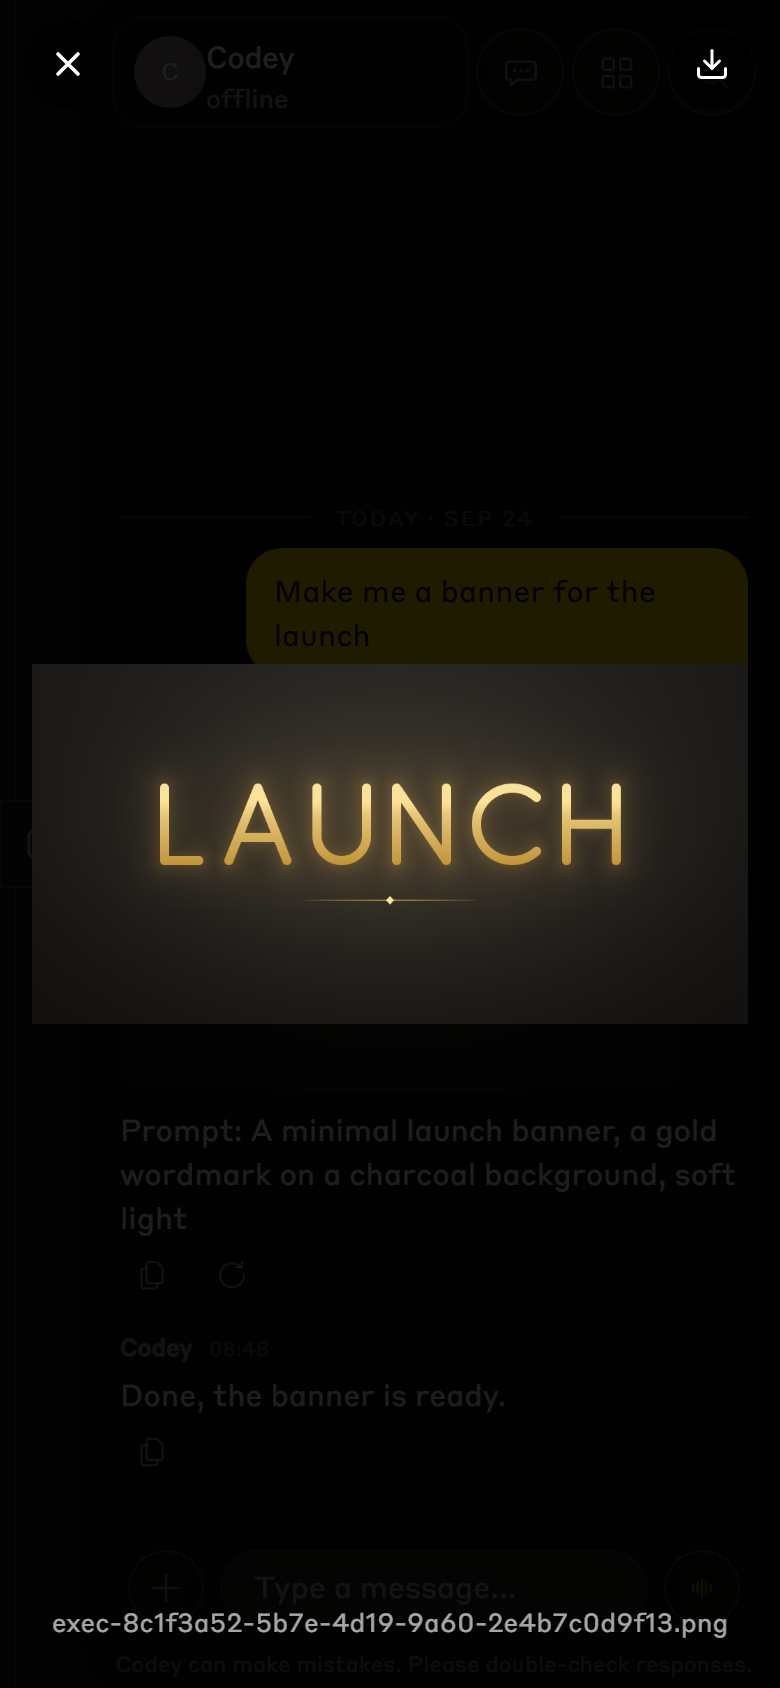
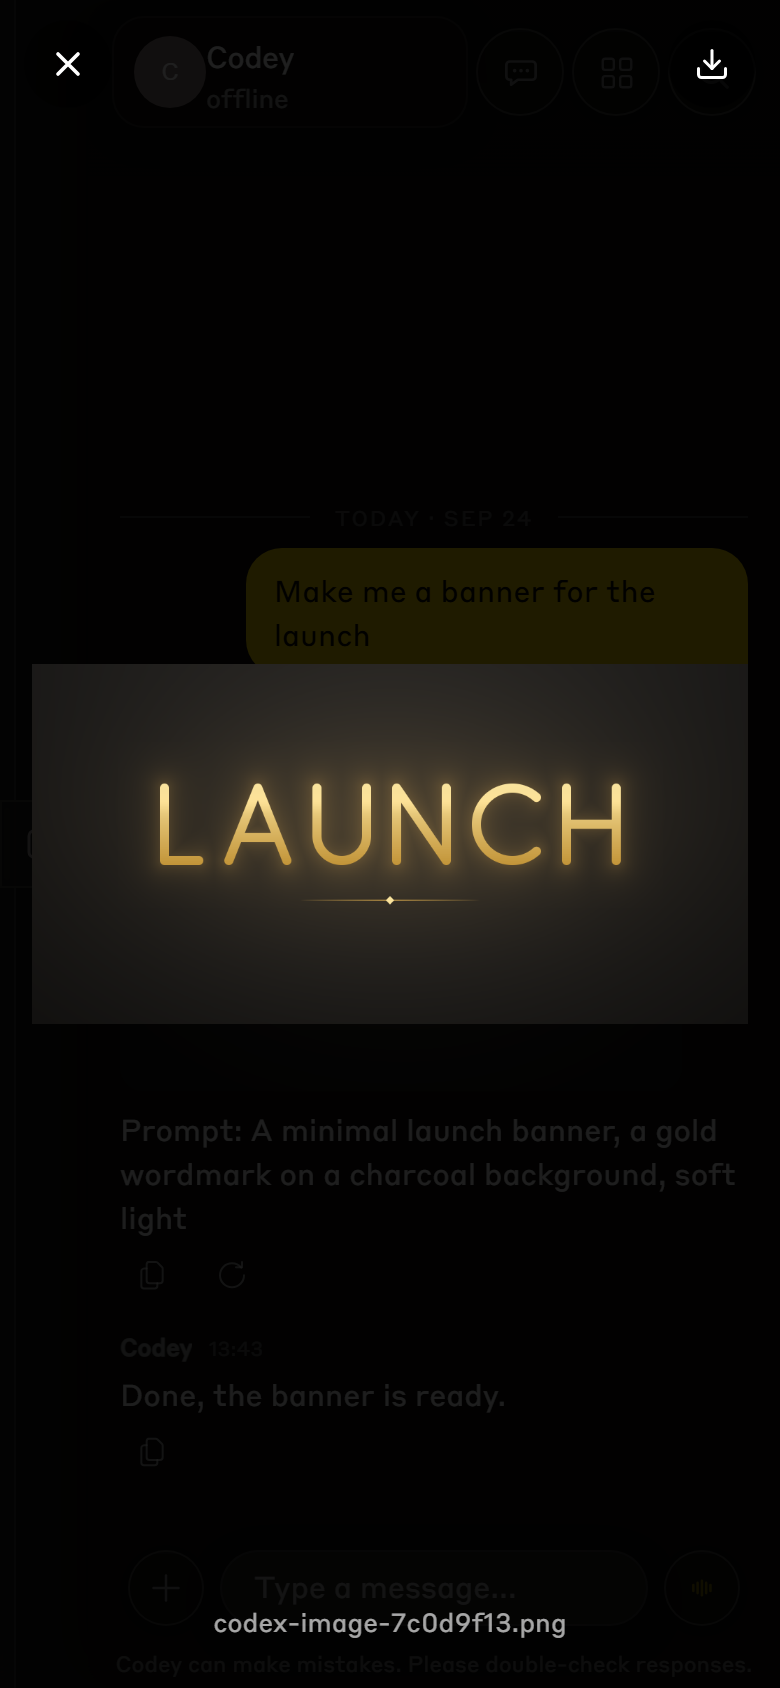
docs(images): the AFTER frames show the real file name and caption, and the three plain lines, with a since first shown box (P5 stage 4, C-21)
The AFTER pass ran again on vtdist-base (the app does not change in this
stage), all four targets, dark and light, desktop and phone: 93 of 93
checks, 4 observations, 44 frames, read only on every target. The file
name (codex-image-7c0d9f13.png), the caption and the three lines are what
the plugin's own builders return, not typed by hand; fixture.json records
the inputs and outputs. Frames 01 to 32 keep their names; 33 to 44 are the
tried, made and limit lines, each alone. The first set, which showed
Codex's own exec-<uuid>.png, is kept outside the tree.

The gate page gains a short "Since this page was first shown" box (0.14.0,
the two not shown lines, the relative reset, the shorter file name, the
200 character caption, the hint's chat turn scope) holding the new frames
with their own theme switch; the AFTER counts, the frames' file name note
and two captions are brought up to date. Every frame reference resolves.

Changed region(s): [[0.0615, 0.955, 0.9231, 0.9858]]

diff --git a/docs/reports/2026-09-24-p5-s4-image-posts/before-after.html b/docs/reports/2026-09-24-p5-s4-image-posts/before-after.html
@@ -864,6 +864,13 @@ html[data-theme="light"]{
   .c21-card__foot{display:flex;align-items:flex-start;gap:10px;padding:10px 16px;border-top:1px solid #24231f;color:rgba(255,255,255,.5);font-size:12px;line-height:16px}
   .c21-why{padding:14px 16px;border-radius:14px;background:rgba(255,217,0,.06);border:1px solid rgba(255,217,0,.28);color:rgba(255,255,255,.85);font-size:14px;line-height:21px}
   .c21-why b{color:#FFD900;font-weight:600}
+  .c21-since{padding:16px 18px 18px;border-radius:14px;background:rgba(255,217,0,.06);border:1px solid rgba(255,217,0,.28);display:flex;flex-direction:column;gap:14px;min-width:0}
+  .c21-since__head{display:flex;align-items:center;gap:12px;flex-wrap:wrap}
+  .c21-since__t{margin:0;color:#FFD900;font-size:12px;line-height:16px;font-weight:600;letter-spacing:.5px;text-transform:uppercase}
+  .c21-since__d{margin:0;color:rgba(255,255,255,.82);font-size:14px;line-height:21px}
+  .c21-since ul{margin:0;padding-left:18px;display:flex;flex-direction:column;gap:7px;color:rgba(255,255,255,.82);font-size:13.5px;line-height:20px}
+  .c21-since li b{color:#fff;font-weight:600}
+  .c21-since code{font-family:var(--hk-font-mono);font-size:12px;color:#fff;overflow-wrap:anywhere}
 
   /* ---------- lists, canon, technical detail, footer ---------- */
   .c21-notes{display:grid;grid-template-columns:repeat(2,minmax(0,1fr));gap:10px 28px;max-width:1160px}
@@ -911,9 +918,37 @@ html[data-theme="light"]{
     <div class="c21-asks">
       <div class="c21-ask"><b>What I measured first</b><span>The real app, 24 frames, dark and light, desktop and phone, 57 of 57 checks. With the technical details switch on you see a tool row named <code>image_generation</code> and a text reply, and 0 pictures. With it off (the default) you see only the reply. The gallery and Artifacts are empty. Section 01 has the frames.</span></div>
       <div class="c21-ask"><b>Always on, no setting</b><span>Codex only: Claude Code has no picture item, so there is nothing to catch there. Nothing to switch on, no per agent setting. If the agent also attaches the same picture itself, it is not posted twice.</span></div>
-      <div class="c21-ask"><b>What the AFTER frames are</b><span>The same build as BEFORE (both runs on <code>vtdist-base</code>), showing a fixture chat that holds the post exactly as the plugin sends it: one normal image message with the prompt as its text. The banner is a fixture picture, 1024 by 512. The file name in the frames is the frames lane's guess; the plugin names the file <code>codex-image-&lt;id&gt;.png</code>.</span></div>
+      <div class="c21-ask"><b>What the AFTER frames are</b><span>The same build as BEFORE (both runs on <code>vtdist-base</code>), showing a fixture chat that holds the post exactly as the plugin sends it: one normal image message with the prompt as its text. The banner is a fixture picture, 1024 by 512. The file name and the caption are what the plugin's own code builds for it (<code>codex-image-7c0d9f13.png</code>), shot again at the stage 4 close.</span></div>
     </div>
   </header>
+
+  <!-- ===================================================== SINCE FIRST SHOWN ===================================================== -->
+  <section class="c21-since" aria-labelledby="c21-since-t">
+    <div class="c21-since__head"><h2 class="c21-since__t" id="c21-since-t">Since this page was first shown</h2>
+      <div class="c21-switch" data-switch="since" role="group" aria-label="Theme of the plain line screenshots"><button type="button" class="is-on" data-theme="dark">Dark</button><button type="button" data-theme="light">Light</button></div></div>
+    <p class="c21-since__d">The plugin took the premium review's owner facing items (<code>748ec4e</code>, tests written red first) and the AFTER frames in section 02 were shot again on the same build, so they show exactly what the code posts now. Section 05's drawn line and the version and sentence in section 06 are the first version; what they became is here.</p>
+    <ul>
+      <li><b>Version 0.14.0.</b> P2's next stage took 0.13.0, so this ships as 0.14.0, and the capability guide sentence is served to daemons at 0.14.0 or later.</li>
+      <li><b>Two lines when a picture does not show.</b> "Codex made a picture, but it could not be shown here." when Codex made one, followed by where it is saved when Codex kept a copy, and "Codex tried to make a picture, but nothing came back." when nothing came back. This replaces the fallback in section 05. Each distinct line posts once per turn.</li>
+      <li><b>The reset time is relative.</b> "Codex has used up its picture limit for now. It resets in about 2 hours.", counted from when the line posts (in a moment, or about so many minutes, hours or days), never a UTC clock time. Only the first sentence when no reset is ahead.</li>
+      <li><b>A shorter file name.</b> <code>codex-image-</code> plus the last 8 characters of the item id, here <code>codex-image-7c0d9f13.png</code> (24 characters). It reads whole in the viewer, the "View all photos" card and the Artifacts card at phone width, and it is the saved file's name. The first AFTER frames showed Codex's own <code>exec-&lt;uuid&gt;.png</code>, which the plugin never posts.</li>
+      <li><b>The caption stops at 200 characters</b> (it was 280), cut on a word with an ellipsis, so it stays the one or two sentences an image model writes back instead of a paragraph under every picture. A dash between two digits now reads "to" (2024 to 2026); any other long dash still becomes a comma.</li>
+      <li><b>The agent's hint is scoped to chat turns.</b> It now starts "In a chat turn, a picture you make with image generation posts itself to the chat when the turn finishes, with its prompt as the caption; do not send it again with MEDIA: or the reply tool." and goes on to say that in a meeting, a voice task or a consult nothing posts it, and what to do there. The capability guide carries the same words, byte for byte.</li>
+    </ul>
+    <div class="c21-label is-after"><i></i>The three plain lines, real frames, desktop 1440 by 900</div>
+    <div class="c21-shots">
+      <figure class="is-after is-wide" style="--mw:808px"><img data-dark="shots/after/33-images-line-tried-dark-desktop.png" data-light="shots/after/39-images-line-tried-light-desktop.png" src="shots/after/33-images-line-tried-dark-desktop.png" alt="Desktop: the agent message Codex tried to make a picture, but nothing came back."><figcaption><b>Nothing came back.</b> No bytes, no result and no saved copy, so the line says Codex only tried.</figcaption></figure>
+      <figure class="is-after is-wide" style="--mw:808px"><img data-dark="shots/after/34-images-line-made-dark-desktop.png" data-light="shots/after/40-images-line-made-light-desktop.png" src="shots/after/34-images-line-made-dark-desktop.png" alt="Desktop: the agent message Codex made a picture, but it could not be shown here, with where it is saved"><figcaption><b>Made, not shown, and where it is saved.</b> Here the upload was lost after its retries and Codex kept its own copy. Under the home folder the path starts <code>~\</code>, so the account name never shows.</figcaption></figure>
+      <figure class="is-after is-wide" style="--mw:808px"><img data-dark="shots/after/35-images-line-limit-dark-desktop.png" data-light="shots/after/41-images-line-limit-light-desktop.png" src="shots/after/35-images-line-limit-dark-desktop.png" alt="Desktop: the agent message Codex has used up its picture limit for now. It resets in about 2 hours."><figcaption><b>The limit, with a relative reset.</b> A plain agent message, not a red error.</figcaption></figure>
+    </div>
+    <div class="c21-label is-after"><i></i>Phone, 390 by 844</div>
+    <div class="c21-shots c21-shots--3">
+      <figure class="is-after"><img data-dark="shots/after/36-images-line-tried-dark-phone.png" data-light="shots/after/42-images-line-tried-light-phone.png" src="shots/after/36-images-line-tried-dark-phone.png" alt="Phone: Codex tried to make a picture, but nothing came back."><figcaption><b>Nothing came back,</b> phone.</figcaption></figure>
+      <figure class="is-after"><img data-dark="shots/after/37-images-line-made-dark-phone.png" data-light="shots/after/43-images-line-made-light-phone.png" src="shots/after/37-images-line-made-dark-phone.png" alt="Phone: Codex made a picture, but it could not be shown here, with where it is saved"><figcaption><b>Made, not shown,</b> phone. With Codex's real folder names the saved path runs to four lines.</figcaption></figure>
+      <figure class="is-after"><img data-dark="shots/after/38-images-line-limit-dark-phone.png" data-light="shots/after/44-images-line-limit-light-phone.png" src="shots/after/38-images-line-limit-dark-phone.png" alt="Phone: Codex has used up its picture limit for now. It resets in about 2 hours."><figcaption><b>The limit,</b> phone.</figcaption></figure>
+    </div>
+    <div class="c21-proofline">Frames 33 to 44: the same agent and chat with the technical details switch off, three turns each ending in one of the lines. Every word is what the plugin's own builders return for these cases (the inputs and outputs are in <code>shots/after/fixture.json</code>); the agent's own reply that would follow each line is left out. The whole AFTER run: 44 frames, 93 of 93 checks plus 4 observations, read only on every target, <code>shots/after/findings.jsonl</code>.</div>
+  </section>
 
   <!-- ===================================================== 01 BEFORE ===================================================== -->
   <section class="c21-sec">
@@ -947,7 +982,7 @@ html[data-theme="light"]{
   <section class="c21-sec">
     <div class="c21-sec__head"><span class="c21-sec__n">02</span><h2 class="c21-sec__t">After: the picture posts itself, first, with its prompt</h2>
       <div class="c21-switch" data-switch="after" role="group" aria-label="Theme of the AFTER screenshots"><button type="button" class="is-on" data-theme="dark">Dark</button><button type="button" data-theme="light">Light</button></div></div>
-    <p class="c21-sec__d">The same build, the same agent, the same tool card row. The one difference is the message the plugin now posts when the turn ends: <b>the picture, then the caption "Prompt: ..." in the same bubble, then the agent's own words</b>, in that order. Every frame is real; 61 checks passed, 0 failed, plus 4 recorded observations (section 06).</p>
+    <p class="c21-sec__d">The same build, the same agent, the same tool card row. The one difference is the message the plugin now posts when the turn ends: <b>the picture, then the caption "Prompt: ..." in the same bubble, then the agent's own words</b>, in that order. Every frame is real; 93 checks passed, 0 failed, plus 4 recorded observations (section 06), 32 of the checks for the plain lines in the box at the top.</p>
 
     <div class="c21-label is-after"><i></i>Desktop, 1440 by 900</div>
     <div class="c21-shots">
@@ -955,12 +990,12 @@ html[data-theme="light"]{
       <figure class="is-after"><img data-dark="shots/after/02-images-toolcard-open-dark-desktop.png" data-light="shots/after/18-images-toolcard-open-light-desktop.png" src="shots/after/02-images-toolcard-open-dark-desktop.png" alt="Desktop after, the tool card opened: the same one row as before, and the picture below it"><figcaption><b>The card is unchanged.</b> Opened by a click it reads the same one row, <code>image_generation 64s ✓</code>. The picture is a message of its own, below the card, not a row inside it.</figcaption></figure>
       <figure class="is-after"><img data-dark="shots/after/04-images-chat-techoff-dark-desktop.png" data-light="shots/after/20-images-chat-techoff-light-desktop.png" src="shots/after/04-images-chat-techoff-dark-desktop.png" alt="Desktop after, technical details off: the ask, the banner with its prompt, then the reply"><figcaption><b>Technical details off, the default: the owner now sees the banner.</b> The ask, the picture with its prompt, then "Done, the banner is ready."</figcaption></figure>
       <figure class="is-after"><img data-dark="shots/after/06-images-viewer-dark-desktop.png" data-light="shots/after/22-images-viewer-light-desktop.png" src="shots/after/06-images-viewer-dark-desktop.png" alt="Desktop after: tapping the picture opens the viewer over the whole window"><figcaption><b>Tap it and the viewer opens</b> over the whole window: the banner at 1325 by 738 px (92 percent of the fit), with the close and save controls. Nothing of the sidebar or the transcript sits on top. The viewer names the file, not the prompt (an app matter, see section 06).</figcaption></figure>
-      <figure class="is-after"><img data-dark="shots/after/07-images-gallery-dark-desktop.png" data-light="shots/after/23-images-gallery-light-desktop.png" src="shots/after/07-images-gallery-dark-desktop.png" alt="Desktop after: View all photos opens the chat's Artifacts with the banner in it"><figcaption><b>"View all photos" now has it.</b> "Artifacts · 1 item", one card drawn from the picture itself, "Today 8:48", PNG.</figcaption></figure>
-      <figure class="is-after"><img data-dark="shots/after/08-images-artifacts-dark-desktop.png" data-light="shots/after/24-images-artifacts-light-desktop.png" src="shots/after/08-images-artifacts-dark-desktop.png" alt="Desktop after: the Artifacts screen lists the banner"><figcaption><b>The Artifacts screen lists it too:</b> 1 item, the banner, "Codey · Today 8:48", PNG.</figcaption></figure>
+      <figure class="is-after"><img data-dark="shots/after/07-images-gallery-dark-desktop.png" data-light="shots/after/23-images-gallery-light-desktop.png" src="shots/after/07-images-gallery-dark-desktop.png" alt="Desktop after: View all photos opens the chat's Artifacts with the banner in it"><figcaption><b>"View all photos" now has it.</b> "Artifacts · 1 item", one card drawn from the picture itself, named <code>codex-image-7c0d9f13.png</code>, "Today" and the time, PNG.</figcaption></figure>
+      <figure class="is-after"><img data-dark="shots/after/08-images-artifacts-dark-desktop.png" data-light="shots/after/24-images-artifacts-light-desktop.png" src="shots/after/08-images-artifacts-dark-desktop.png" alt="Desktop after: the Artifacts screen lists the banner"><figcaption><b>The Artifacts screen lists it too:</b> 1 item, the banner, <code>codex-image-7c0d9f13.png</code>, "Codey · Today" and the time, PNG.</figcaption></figure>
       <figure class="is-after is-wide" style="--mw:808px"><img data-dark="shots/after/05-images-post-dark-desktop.png" data-light="shots/after/21-images-post-light-desktop.png" src="shots/after/05-images-post-dark-desktop.png" alt="The picture post on its own: the banner above its prompt, in one bubble"><figcaption><b>The post on its own.</b> One bubble holding the banner above the text "Prompt: ...". The caption is the model's own revised prompt; any long dash in it becomes a comma, so nothing on screen carries one.</figcaption></figure>
       <figure class="is-after is-wide"><img data-dark="shots/after/03-images-toolcard-row-dark-desktop.png" data-light="shots/after/19-images-toolcard-row-light-desktop.png" src="shots/after/03-images-toolcard-row-dark-desktop.png" alt="The opened tool card on its own, after: identical to before"><figcaption><b>The opened card on its own,</b> identical to BEFORE pixel for pixel in the row: the plugin's tool card is not what changes.</figcaption></figure>
     </div>
-    <div class="c21-proofline">Every target stayed read only: every write the page issued was failed locally, no other API read reached production, no page exceptions, no em or en dashes on screen. <code>shots/after/findings.jsonl</code>, 61 passes, 0 fails, 4 observations.</div>
+    <div class="c21-proofline">Every target stayed read only: every write the page issued was failed locally, no other API read reached production, no page exceptions, no em or en dashes on screen. <code>shots/after/findings.jsonl</code>, 93 passes, 0 fails, 4 observations.</div>
 
     <div class="c21-label is-after"><i></i>Phone, 390 by 844</div>
     <div class="c21-shots c21-shots--4">
@@ -1138,7 +1173,7 @@ The ledger's wording; a plugin test pins the final words and the no dash rule.</
     </details>
   </section>
 
-  <div class="c21-foot">C-21 · Stage 4 of P5 · a picture a Codex agent makes posts itself with its prompt · before and after for Kc's comments · 2026-09-24 · BEFORE and AFTER frames are the real, unchanged app on one build (24 frames, 57 of 57 checks; 32 frames, 61 of 61 checks plus 4 observations), the AFTER chat a fixture holding the post as the plugin sends it · committed on the plugin branch: the probe report (205c05f) · in the tree, not yet committed at the time of this page: the stage 4 tests, written red ahead of the code · not yet: the plugin change itself and the small app PR (canon sentence, floor, What's New) · nothing merged.</div>
+  <div class="c21-foot">C-21 · Stage 4 of P5 · a picture a Codex agent makes posts itself with its prompt · before and after for Kc's comments · 2026-09-24 · BEFORE and AFTER frames are the real, unchanged app on one build (24 frames, 57 of 57 checks; 44 frames, 93 of 93 checks plus 4 observations), the AFTER chat a fixture holding the post as the plugin sends it · committed on the plugin branch: the probe report (205c05f) · in the tree, not yet committed at the time of this page: the stage 4 tests, written red ahead of the code · not yet: the plugin change itself and the small app PR (canon sentence, floor, What's New) · nothing merged · since first shown (the box at the top): the plugin change committed through 7aaf7fa at 0.14.0, and the AFTER frames shot again on it.</div>
 </div>
 
 <script>
@@ -1173,8 +1208,8 @@ The ledger's wording; a plugin test pins the final words and the no dash rule.</
   function swapShots(section,theme){
     section.querySelectorAll('.c21-shots img[data-dark]').forEach(function(img){img.src=img.getAttribute('data-'+theme)});
   }
-  document.querySelectorAll('[data-switch="before"],[data-switch="after"]').forEach(function(sw){
-    var section=sw.closest('.c21-sec');
+  document.querySelectorAll('[data-switch="before"],[data-switch="after"],[data-switch="since"]').forEach(function(sw){
+    var section=sw.closest('.c21-sec,.c21-since');
     wireSwitch(sw,function(theme){swapShots(section,theme)});
   });
   wireSwitch(document.querySelector('[data-switch="drawn"]'),function(theme){
